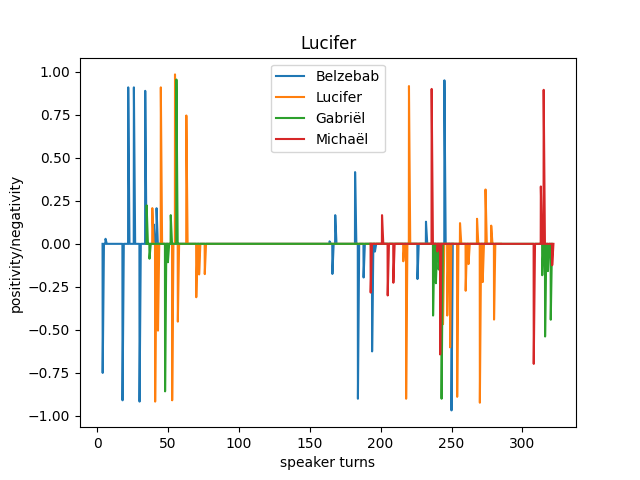
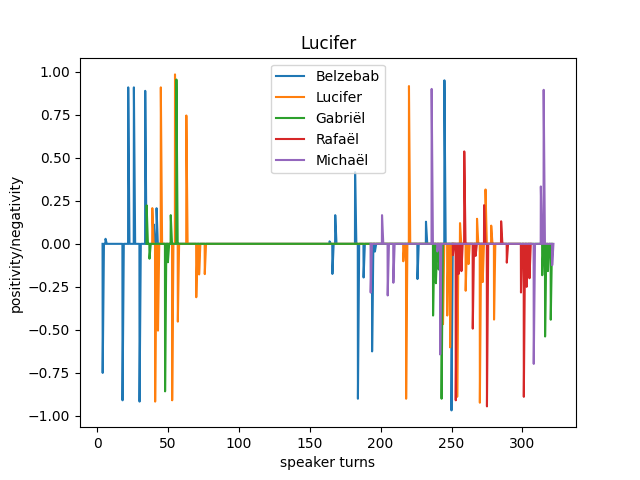
added Rafael to Lucifer's sentiment plot

Changed region(s): [[0.5625, 0.1875, 0.875, 0.8438], [0.4062, 0.2812, 0.5938, 0.3438]]

diff --git a/main.py b/main.py
@@ -24,13 +24,13 @@ elif user_input == 2:
 
 
 elif user_input == 3:
-    data = {'data/vondels_toneel/vond001luci01_01.xml': ['Belzebab', 'Lucifer', 'Gabriël', 'Michaël'], 'data/spaans/lope001bekl02_01.xml': [
+    data = {'data/vondels_toneel/vond001luci01_01.xml': ['Belzebab', 'Lucifer', 'Gabriël', 'Rafaël', 'Michaël'], 'data/spaans/lope001bekl02_01.xml': [
         'Rozaura', 'Dionysia', 'Henrijk', 'Octavio'], 'data/senecaans_scaligeriaans/hoof001achi01_01.xml': ['Achilles', 'Polyxena', 
         'Hector', 'Pryamus'], 'data/gruwel_en_spektakeltoneel/vos_002mede03_01.xml': ['Medea', 'Jazon', 'Kreuza'], 'data/vondels_toneel/vond001gysb04_01.xml': 
         ['Gijsbrecht', 'Badeloch'], 'data/spaans/lope001joan01_01.xml': ['Joanna', 'Andreas', 'Lodewijck']}
     print("""Plotting sentiment visualisation for:
     1. 'Lucifer' by Vondel
-        - Speakers: Belzebab, Lucifer, Gabriël and Michaël
+        - Speakers: Belzebab, Lucifer, Gabriël, Rafaël and Michaël
     2. 'De beklaaghelycke dwangh' by Lope de Vega
         - Speakers: Rozaura, Dionysia, Henrijk and Octavio
     3. 'Achilles en Polyxena' by Hooft

diff --git a/help_methods/translate_speaker.py b/help_methods/translate_speaker.py
@@ -3,7 +3,7 @@ def translate_speaker(speaker):
     This function translates various references to specific speakers in certain plays into a clear reference.
     Specifically for the following plays and speakers:
     1. 'Lucifer' by Vondel
-        - Speakers: Belzebab, Lucifer, Gabriël and Michaël
+        - Speakers: Rafaël, Belzebab, Lucifer, Gabriël and Michaël
     2. 'De beklaaghelycke dwangh' by Lope de Vega
         - Speakers: Rozaura, Dionysia, Henrijk and Octavio
     3. 'Achilles en Polyxena' by Hooft
@@ -33,6 +33,8 @@ def translate_speaker(speaker):
         return 'Gabriël'
     elif speaker in ['mich', 'michaël']:
         return 'Michaël'
+    elif speaker in ['raf', 'rafaël']:
+        return 'Rafaël'
 
     elif speaker in ['pryamus', 'priamus']:
         return 'Pryamus'

diff --git a/help_methods/identify_speakers.py b/help_methods/identify_speakers.py
@@ -42,3 +42,4 @@ def identify_speakers(filename):
                             tmp_speaker = []
     
     return speakers
+    
